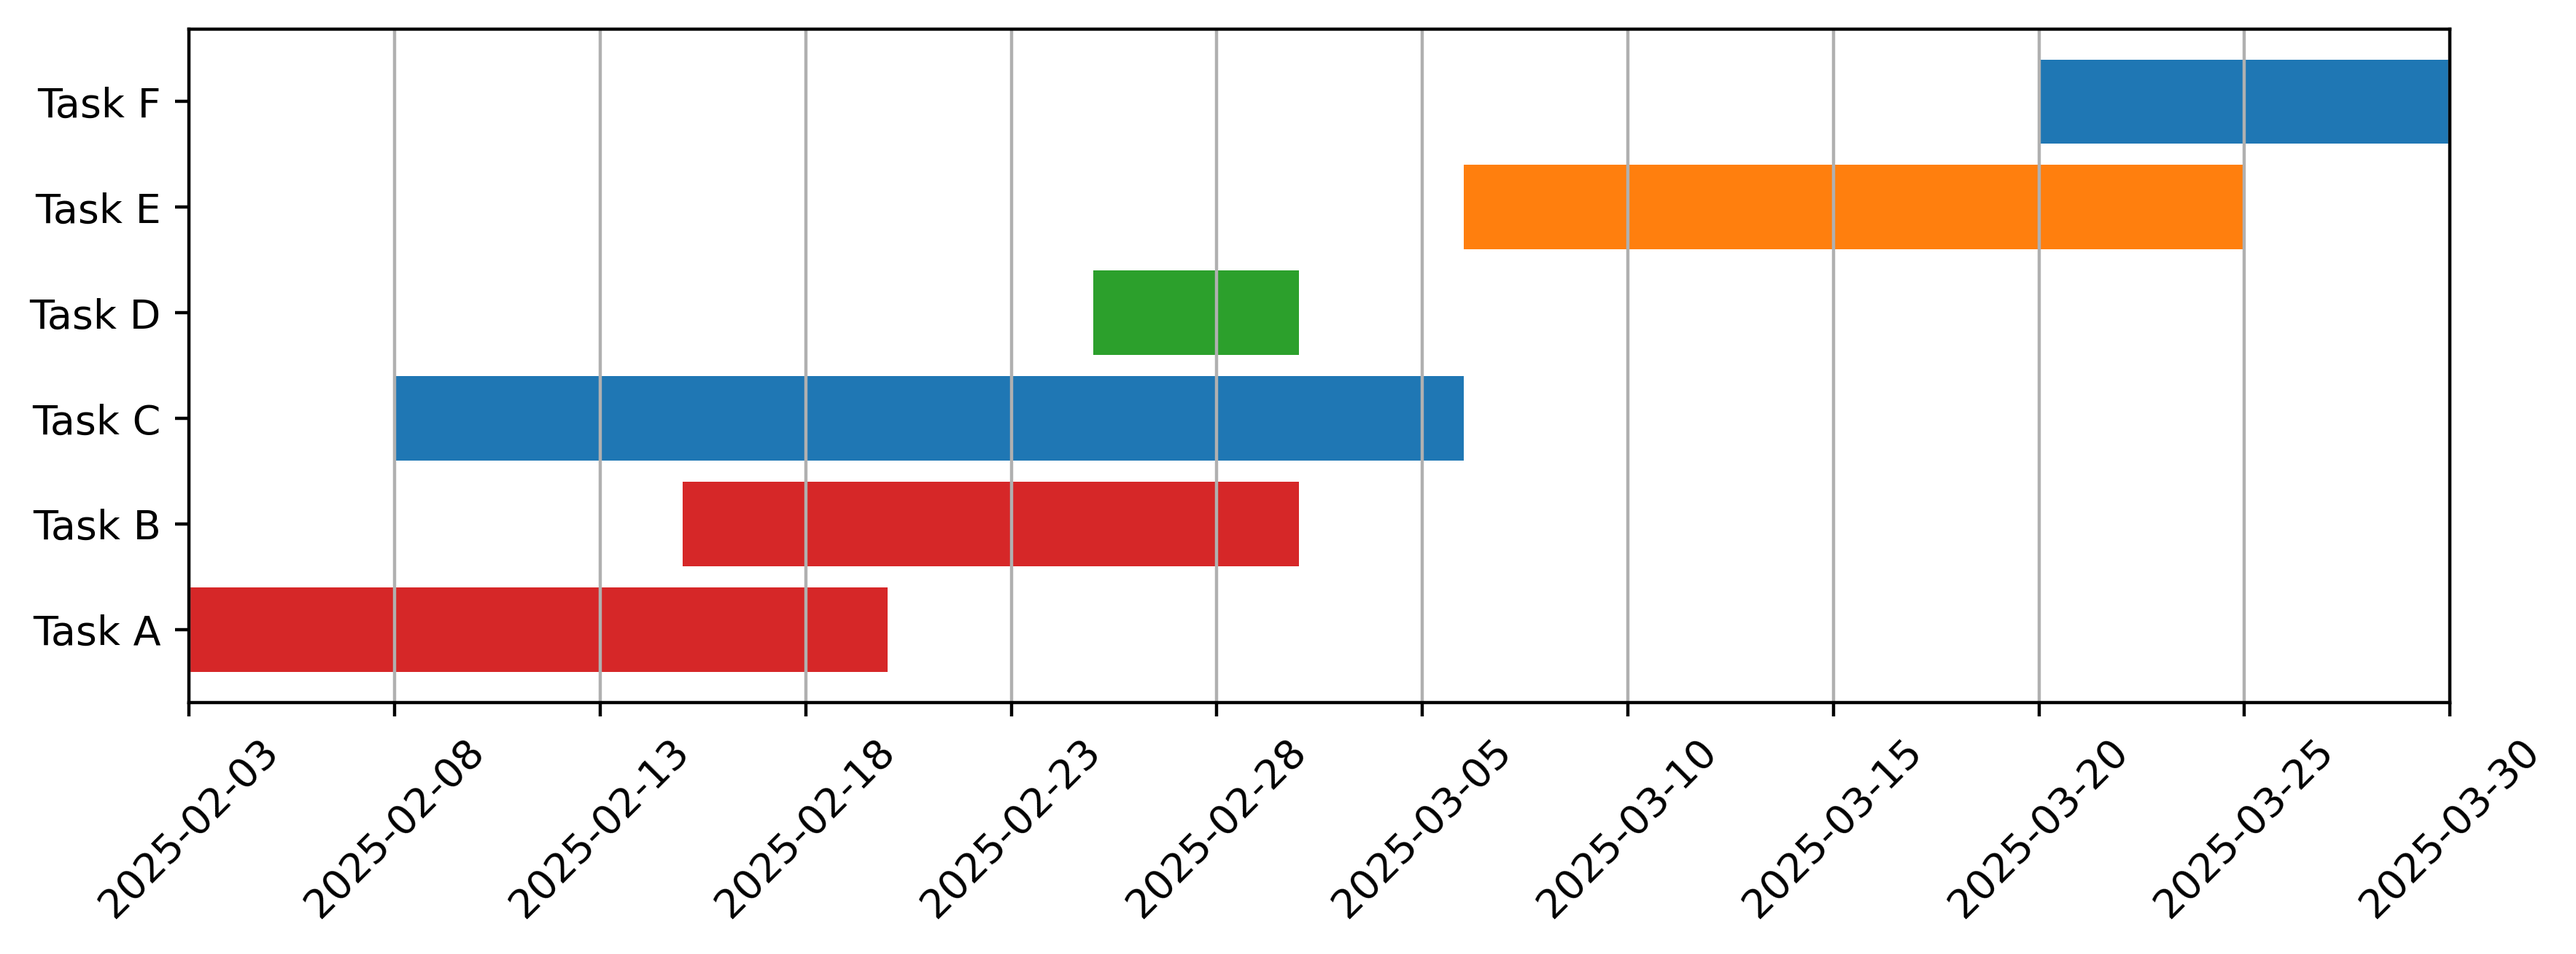
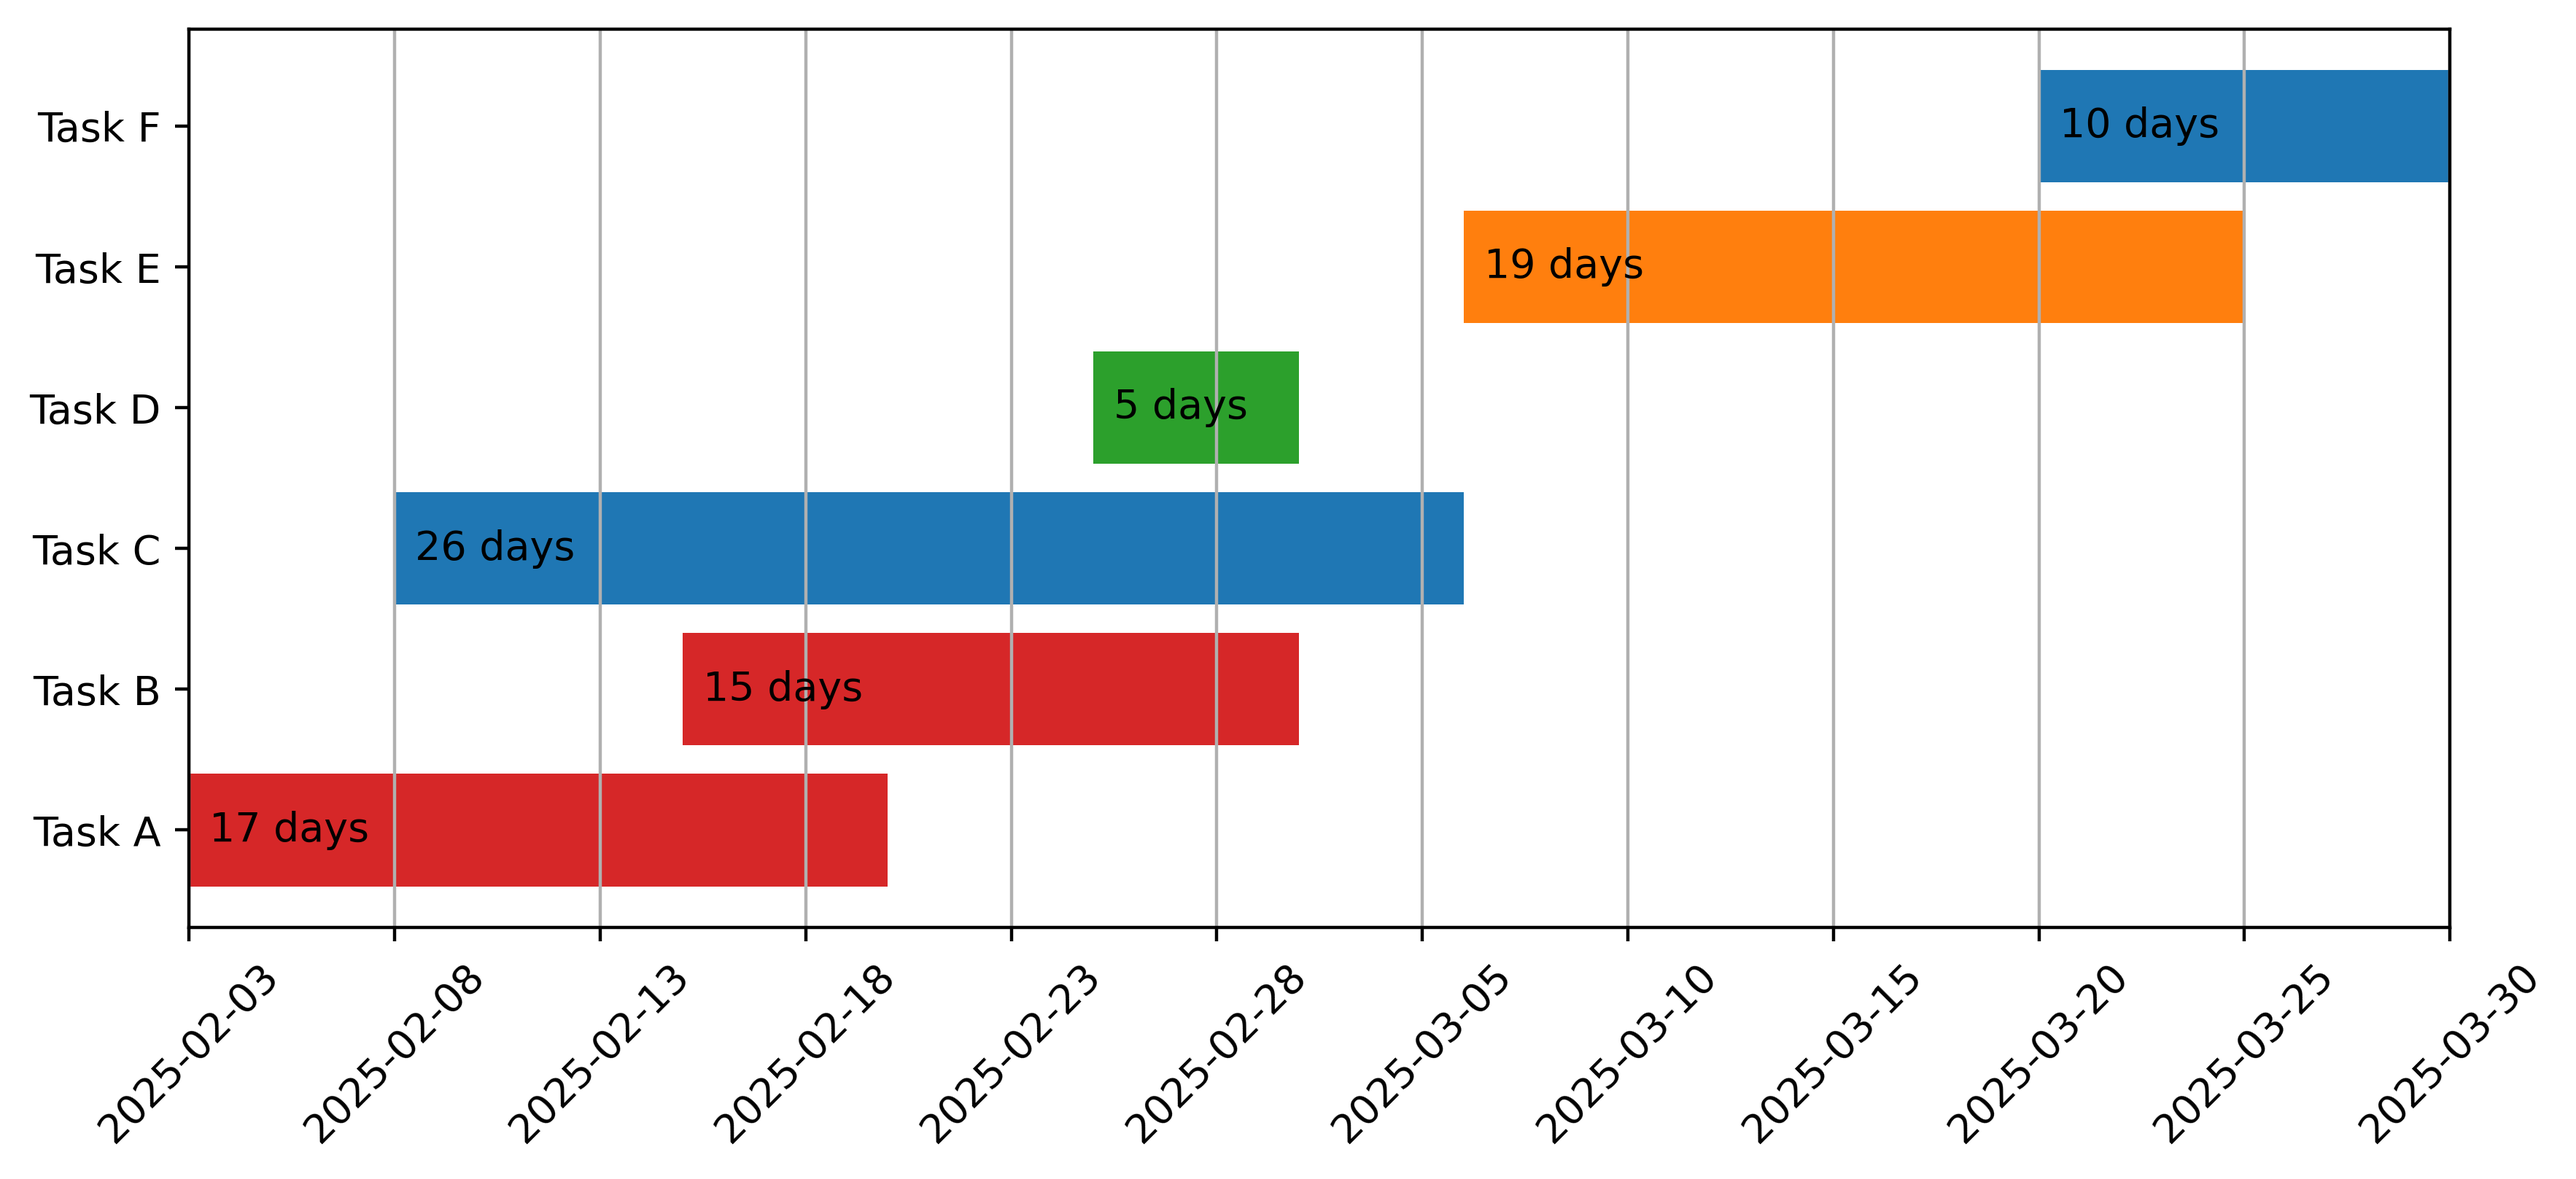
Add show_durations option

diff --git a/ganttpy/gantt.py b/ganttpy/gantt.py
@@ -10,13 +10,13 @@ DEFAULT_COLOR = 'tab:blue'
 
 class Task:
     """Class representing a single task with some name, start date, 
-    end date (or duration in days), and a color to be used when plotting.
+    finish date (or duration in days), and a color to be used when plotting.
     """
     def __init__(
         self, 
         name,
         start,
-        end=None, 
+        finish=None, 
         duration=None, 
         color=DEFAULT_COLOR
     ):
@@ -28,21 +28,21 @@ class Task:
         Args:
             name (str): Task name.
             start (str): Task start date.
-            end (str, optional): Task end date.
+            finish (str, optional): Task finish date.
             duration (float, optional): Task duration in days.
             color (str, optional): Task color.  
         """
         self.name = name
 
         self.start = pd.to_datetime(start)
-        if end is not None:
-            self.end = pd.to_datetime(end)
-            self.duration = self.end - self.start
+        if finish is not None:
+            self.finish = pd.to_datetime(finish)
+            self.duration = self.finish - self.start
         elif duration is not None:
             self.duration = pd.Timedelta(f'{duration} days')
-            self.end = self.start + self.duration
+            self.finish = self.start + self.duration
         else:
-            raise ValueError('Must specify either task end date or duration (in days)')
+            raise ValueError('Must specify either task finish date or duration (in days)')
 
         self.color = color or DEFAULT_COLOR
 
@@ -50,7 +50,7 @@ class Task:
         cls = self.__class__.__name__
         return (
             f'{cls}(name={self.name}, start={self.start}, '
-            f'end={self.end}, duration={self.duration}, color={self.color})'
+            f'finish={self.finish}, duration={self.duration}, color={self.color})'
         )
 
 
@@ -58,10 +58,12 @@ def gantt(
     tasks,
     order='listed',
     begin_date=None, 
-    figsize=(10, 3),
+    figsize=(10, 4),
     figtitle=None, 
     date_freq='7D',
     date_format='%Y-%m-%d',
+    fontsize=10,
+    show_durations=False,
     fname=None, 
     return_fig=False
 ):
@@ -77,8 +79,10 @@ def gantt(
         begin_date (str, optional): Beginning date of the time axis.
         figsize (tuple[float], optional): Figure width and height.
         figtitle (str, optional): Figure title.
-        date_freq (str, optional): Date tick frequency.
-        date_format(str, optional): Date format.
+        date_freq (str, optional): Date label frequency.
+        date_format (str, optional): Date format.
+        fontsize (float, optional): Tick label fontsize.
+        show_durations (bool, optional): Show task durations in the plot.
         fname (str, optional): File path to save figure.
         return_fig (bool, optional): Return figure and axis objects. 
     """
@@ -103,33 +107,44 @@ def gantt(
         begin_date = min(task.start for task in tasks)
     else:
         begin_date = pd.to_datetime(begin_date)
-    end_date = max(task.end for task in tasks)
+    end_date = max(task.finish for task in tasks)
 
     # Set up figure and add task entries one by one
     fig, ax = plt.subplots(figsize=figsize)
     task_idxs = []
     task_labels = []
     for idx, task in enumerate(tasks):
+        days_to_start = (task.start - begin_date).days
         ax.barh(
             y=idx,
-            left=(task.start - begin_date).days,
+            left=days_to_start,
             width=task.duration.days,
             color=task.color
         )
         task_idxs.append(idx)
         task_labels.append(task.name)
 
+        # Print task durations
+        if show_durations:
+            ax.text(
+                x=days_to_start+0.5, 
+                y=idx, 
+                s=f'{int(task.duration.days)} days',
+                va='center',
+                fontsize=fontsize
+            )
+
     # Task labels
     ax.set_yticks(task_idxs)
-    ax.set_yticklabels(task_labels)
-    ax.set_title(figtitle)
+    ax.set_yticklabels(task_labels, fontsize=fontsize)
+    ax.set_title(figtitle, fontsize=fontsize)
 
     # Date labels
     ax.set_xlim(0, (end_date - begin_date).days)
     time_ticks = pd.date_range(start=begin_date, end=end_date, freq=date_freq)
     ax.set_xticks([(tt - begin_date).days for tt in time_ticks])
     time_labels = [tt.strftime(date_format) for tt in time_ticks]
-    ax.set_xticklabels(time_labels, rotation=45)
+    ax.set_xticklabels(time_labels, rotation=45, fontsize=fontsize)
 
     ax.grid(axis='x')
         
